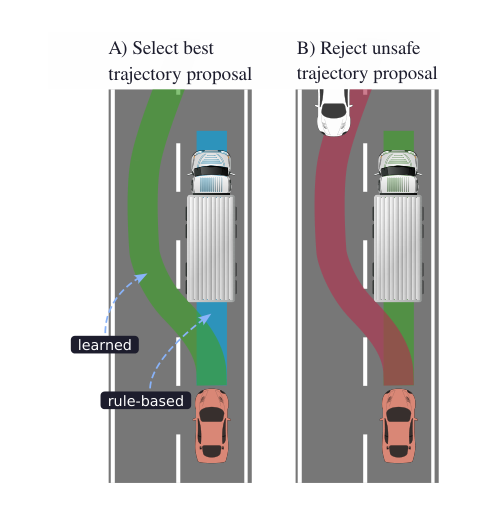
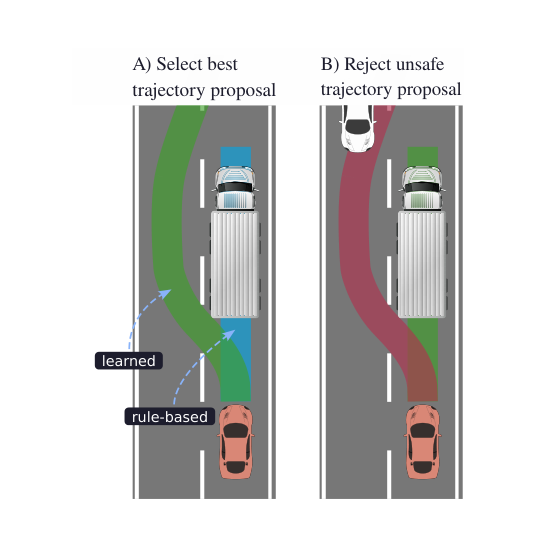
Tighten preview padding

Changed region(s): [[0.584, 0.0621, 0.9221, 0.9631], [0.123, 0.0621, 0.5225, 0.9631]]

diff --git a/runs/2026-04-17_00-15-25.html b/runs/2026-04-17_00-15-25.html
@@ -278,10 +278,10 @@
                     <div class='paper-preview'>
                       <div class='paper-preview-toolbar'>
                         <span class='preview-kind source'>源图优先</span>
-                        <button type='button' class='preview-open' data-preview-open='../assets/previews/2604.13891.png' data-preview-title='Beyond Conservative Automated Driving in Multi-Agent Scenarios via Coupled Model Predictive Control and Deep Reinforcement Learning' data-preview-source='源代码原图 · framework.pdf · 1378×692'>预览</button>
+                        <button type='button' class='preview-open' data-preview-open='../assets/previews/2604.13891.png' data-preview-title='Beyond Conservative Automated Driving in Multi-Agent Scenarios via Coupled Model Predictive Control and Deep Reinforcement Learning' data-preview-source='源代码原图 · framework.pdf · 1448×724'>预览</button>
                       </div>
-                      <img src='../assets/previews/2604.13891.png' alt='Beyond Conservative Automated Driving in Multi-Agent Scenarios via Coupled Model Predictive Control and Deep Reinforcement Learning 框架图预览' loading='lazy' decoding='async' data-preview-open='../assets/previews/2604.13891.png' data-preview-title='Beyond Conservative Automated Driving in Multi-Agent Scenarios via Coupled Model Predictive Control and Deep Reinforcement Learning' data-preview-source='源代码原图 · framework.pdf · 1378×692'>
-                      <div class='paper-preview-meta'><strong>预览图</strong><span>源代码原图 · framework.pdf · 1378×692</span></div>
+                      <img src='../assets/previews/2604.13891.png' alt='Beyond Conservative Automated Driving in Multi-Agent Scenarios via Coupled Model Predictive Control and Deep Reinforcement Learning 框架图预览' loading='lazy' decoding='async' data-preview-open='../assets/previews/2604.13891.png' data-preview-title='Beyond Conservative Automated Driving in Multi-Agent Scenarios via Coupled Model Predictive Control and Deep Reinforcement Learning' data-preview-source='源代码原图 · framework.pdf · 1448×724'>
+                      <div class='paper-preview-meta'><strong>预览图</strong><span>源代码原图 · framework.pdf · 1448×724</span></div>
                     </div>
                     <div class='paper-badges'>
                       <span class='badge violet'>实现概率 75%</span>
@@ -320,10 +320,10 @@
                     <div class='paper-preview'>
                       <div class='paper-preview-toolbar'>
                         <span class='preview-kind source'>源图优先</span>
-                        <button type='button' class='preview-open' data-preview-open='../assets/previews/2604.13853.png' data-preview-title='Mosaic: An Extensible Framework for Composing Rule-Based and Learned Motion Planners' data-preview-source='源代码原图 · mosaic-teaser.pdf · 488×515'>预览</button>
+                        <button type='button' class='preview-open' data-preview-open='../assets/previews/2604.13853.png' data-preview-title='Mosaic: An Extensible Framework for Composing Rule-Based and Learned Motion Planners' data-preview-source='源代码原图 · mosaic-teaser.pdf · 536×547'>预览</button>
                       </div>
-                      <img src='../assets/previews/2604.13853.png' alt='Mosaic: An Extensible Framework for Composing Rule-Based and Learned Motion Planners 框架图预览' loading='lazy' decoding='async' data-preview-open='../assets/previews/2604.13853.png' data-preview-title='Mosaic: An Extensible Framework for Composing Rule-Based and Learned Motion Planners' data-preview-source='源代码原图 · mosaic-teaser.pdf · 488×515'>
-                      <div class='paper-preview-meta'><strong>预览图</strong><span>源代码原图 · mosaic-teaser.pdf · 488×515</span></div>
+                      <img src='../assets/previews/2604.13853.png' alt='Mosaic: An Extensible Framework for Composing Rule-Based and Learned Motion Planners 框架图预览' loading='lazy' decoding='async' data-preview-open='../assets/previews/2604.13853.png' data-preview-title='Mosaic: An Extensible Framework for Composing Rule-Based and Learned Motion Planners' data-preview-source='源代码原图 · mosaic-teaser.pdf · 536×547'>
+                      <div class='paper-preview-meta'><strong>预览图</strong><span>源代码原图 · mosaic-teaser.pdf · 536×547</span></div>
                     </div>
                     <div class='paper-badges'>
                       <span class='badge green'>实现概率 82%</span>
@@ -362,10 +362,10 @@
                     <div class='paper-preview'>
                       <div class='paper-preview-toolbar'>
                         <span class='preview-kind source'>源图优先</span>
-                        <button type='button' class='preview-open' data-preview-open='../assets/previews/2604.12918.png' data-preview-title='Radar-Camera BEV Multi-Task Learning with Cross-Task Attention Bridge for Joint 3D Detection and Segmentation' data-preview-source='源代码原图 · gate_evolution.png · 1160×784'>预览</button>
+                        <button type='button' class='preview-open' data-preview-open='../assets/previews/2604.12918.png' data-preview-title='Radar-Camera BEV Multi-Task Learning with Cross-Task Attention Bridge for Joint 3D Detection and Segmentation' data-preview-source='源代码原图 · gate_evolution.png · 1218×816'>预览</button>
                       </div>
-                      <img src='../assets/previews/2604.12918.png' alt='Radar-Camera BEV Multi-Task Learning with Cross-Task Attention Bridge for Joint 3D Detection and Segmentation 框架图预览' loading='lazy' decoding='async' data-preview-open='../assets/previews/2604.12918.png' data-preview-title='Radar-Camera BEV Multi-Task Learning with Cross-Task Attention Bridge for Joint 3D Detection and Segmentation' data-preview-source='源代码原图 · gate_evolution.png · 1160×784'>
-                      <div class='paper-preview-meta'><strong>预览图</strong><span>源代码原图 · gate_evolution.png · 1160×784</span></div>
+                      <img src='../assets/previews/2604.12918.png' alt='Radar-Camera BEV Multi-Task Learning with Cross-Task Attention Bridge for Joint 3D Detection and Segmentation 框架图预览' loading='lazy' decoding='async' data-preview-open='../assets/previews/2604.12918.png' data-preview-title='Radar-Camera BEV Multi-Task Learning with Cross-Task Attention Bridge for Joint 3D Detection and Segmentation' data-preview-source='源代码原图 · gate_evolution.png · 1218×816'>
+                      <div class='paper-preview-meta'><strong>预览图</strong><span>源代码原图 · gate_evolution.png · 1218×816</span></div>
                     </div>
                     <div class='paper-badges'>
                       <span class='badge violet'>实现概率 78%</span>
@@ -416,10 +416,10 @@
                     <div class='paper-preview'>
                       <div class='paper-preview-toolbar'>
                         <span class='preview-kind source'>源图优先</span>
-                        <button type='button' class='preview-open' data-preview-open='../assets/previews/2604.12879.png' data-preview-title='FastGrasp: Learning-based Whole-body Control method for Fast Dexterous Grasping with Mobile Manipulators' data-preview-source='源代码原图 · pipeline4.pdf · 2671×1426'>预览</button>
+                        <button type='button' class='preview-open' data-preview-open='../assets/previews/2604.12879.png' data-preview-title='FastGrasp: Learning-based Whole-body Control method for Fast Dexterous Grasping with Mobile Manipulators' data-preview-source='源代码原图 · pipeline4.pdf · 2805×1452'>预览</button>
                       </div>
-                      <img src='../assets/previews/2604.12879.png' alt='FastGrasp: Learning-based Whole-body Control method for Fast Dexterous Grasping with Mobile Manipulators 框架图预览' loading='lazy' decoding='async' data-preview-open='../assets/previews/2604.12879.png' data-preview-title='FastGrasp: Learning-based Whole-body Control method for Fast Dexterous Grasping with Mobile Manipulators' data-preview-source='源代码原图 · pipeline4.pdf · 2671×1426'>
-                      <div class='paper-preview-meta'><strong>预览图</strong><span>源代码原图 · pipeline4.pdf · 2671×1426</span></div>
+                      <img src='../assets/previews/2604.12879.png' alt='FastGrasp: Learning-based Whole-body Control method for Fast Dexterous Grasping with Mobile Manipulators 框架图预览' loading='lazy' decoding='async' data-preview-open='../assets/previews/2604.12879.png' data-preview-title='FastGrasp: Learning-based Whole-body Control method for Fast Dexterous Grasping with Mobile Manipulators' data-preview-source='源代码原图 · pipeline4.pdf · 2805×1452'>
+                      <div class='paper-preview-meta'><strong>预览图</strong><span>源代码原图 · pipeline4.pdf · 2805×1452</span></div>
                     </div>
                     <div class='paper-badges'>
                       <span class='badge violet'>实现概率 70%</span>
@@ -458,10 +458,10 @@
                     <div class='paper-preview'>
                       <div class='paper-preview-toolbar'>
                         <span class='preview-kind source'>源图优先</span>
-                        <button type='button' class='preview-open' data-preview-open='../assets/previews/2604.13015.png' data-preview-title='Learning Versatile Humanoid Manipulation with Touch Dreaming' data-preview-source='源代码原图 · teaser.pdf · 1740×1298'>预览</button>
+                        <button type='button' class='preview-open' data-preview-open='../assets/previews/2604.13015.png' data-preview-title='Learning Versatile Humanoid Manipulation with Touch Dreaming' data-preview-source='源代码原图 · teaser.pdf · 1828×1322'>预览</button>
                       </div>
-                      <img src='../assets/previews/2604.13015.png' alt='Learning Versatile Humanoid Manipulation with Touch Dreaming 框架图预览' loading='lazy' decoding='async' data-preview-open='../assets/previews/2604.13015.png' data-preview-title='Learning Versatile Humanoid Manipulation with Touch Dreaming' data-preview-source='源代码原图 · teaser.pdf · 1740×1298'>
-                      <div class='paper-preview-meta'><strong>预览图</strong><span>源代码原图 · teaser.pdf · 1740×1298</span></div>
+                      <img src='../assets/previews/2604.13015.png' alt='Learning Versatile Humanoid Manipulation with Touch Dreaming 框架图预览' loading='lazy' decoding='async' data-preview-open='../assets/previews/2604.13015.png' data-preview-title='Learning Versatile Humanoid Manipulation with Touch Dreaming' data-preview-source='源代码原图 · teaser.pdf · 1828×1322'>
+                      <div class='paper-preview-meta'><strong>预览图</strong><span>源代码原图 · teaser.pdf · 1828×1322</span></div>
                     </div>
                     <div class='paper-badges'>
                       <span class='badge soft'>实现概率 68%</span>
@@ -500,10 +500,10 @@
                     <div class='paper-preview'>
                       <div class='paper-preview-toolbar'>
                         <span class='preview-kind source'>源图优先</span>
-                        <button type='button' class='preview-open' data-preview-open='../assets/previews/2604.14089.png' data-preview-title='UMI-3D: Extending Universal Manipulation Interface from Vision-Limited to 3D Spatial Perception' data-preview-source='源代码原图 · UMI-3D.jpg · 1236×712'>预览</button>
+                        <button type='button' class='preview-open' data-preview-open='../assets/previews/2604.14089.png' data-preview-title='UMI-3D: Extending Universal Manipulation Interface from Vision-Limited to 3D Spatial Perception' data-preview-source='源代码原图 · UMI-3D.jpg · 1300×744'>预览</button>
                       </div>
-                      <img src='../assets/previews/2604.14089.png' alt='UMI-3D: Extending Universal Manipulation Interface from Vision-Limited to 3D Spatial Perception 框架图预览' loading='lazy' decoding='async' data-preview-open='../assets/previews/2604.14089.png' data-preview-title='UMI-3D: Extending Universal Manipulation Interface from Vision-Limited to 3D Spatial Perception' data-preview-source='源代码原图 · UMI-3D.jpg · 1236×712'>
-                      <div class='paper-preview-meta'><strong>预览图</strong><span>源代码原图 · UMI-3D.jpg · 1236×712</span></div>
+                      <img src='../assets/previews/2604.14089.png' alt='UMI-3D: Extending Universal Manipulation Interface from Vision-Limited to 3D Spatial Perception 框架图预览' loading='lazy' decoding='async' data-preview-open='../assets/previews/2604.14089.png' data-preview-title='UMI-3D: Extending Universal Manipulation Interface from Vision-Limited to 3D Spatial Perception' data-preview-source='源代码原图 · UMI-3D.jpg · 1300×744'>
+                      <div class='paper-preview-meta'><strong>预览图</strong><span>源代码原图 · UMI-3D.jpg · 1300×744</span></div>
                     </div>
                     <div class='paper-badges'>
                       <span class='badge soft'>实现概率 66%</span>
@@ -554,10 +554,10 @@
                     <div class='paper-preview'>
                       <div class='paper-preview-toolbar'>
                         <span class='preview-kind source'>源图优先</span>
-                        <button type='button' class='preview-open' data-preview-open='../assets/previews/2604.14125.png' data-preview-title='HiVLA: A Visual-Grounded-Centric Hierarchical Embodied Manipulation System' data-preview-source='源代码原图 · real.pdf · 2160×2040'>预览</button>
+                        <button type='button' class='preview-open' data-preview-open='../assets/previews/2604.14125.png' data-preview-title='HiVLA: A Visual-Grounded-Centric Hierarchical Embodied Manipulation System' data-preview-source='源代码原图 · real.pdf · 2268×2076'>预览</button>
                       </div>
-                      <img src='../assets/previews/2604.14125.png' alt='HiVLA: A Visual-Grounded-Centric Hierarchical Embodied Manipulation System 框架图预览' loading='lazy' decoding='async' data-preview-open='../assets/previews/2604.14125.png' data-preview-title='HiVLA: A Visual-Grounded-Centric Hierarchical Embodied Manipulation System' data-preview-source='源代码原图 · real.pdf · 2160×2040'>
-                      <div class='paper-preview-meta'><strong>预览图</strong><span>源代码原图 · real.pdf · 2160×2040</span></div>
+                      <img src='../assets/previews/2604.14125.png' alt='HiVLA: A Visual-Grounded-Centric Hierarchical Embodied Manipulation System 框架图预览' loading='lazy' decoding='async' data-preview-open='../assets/previews/2604.14125.png' data-preview-title='HiVLA: A Visual-Grounded-Centric Hierarchical Embodied Manipulation System' data-preview-source='源代码原图 · real.pdf · 2268×2076'>
+                      <div class='paper-preview-meta'><strong>预览图</strong><span>源代码原图 · real.pdf · 2268×2076</span></div>
                     </div>
                     <div class='paper-badges'>
                       <span class='badge violet'>实现概率 72%</span>
@@ -596,10 +596,10 @@
                     <div class='paper-preview'>
                       <div class='paper-preview-toolbar'>
                         <span class='preview-kind source'>源图优先</span>
-                        <button type='button' class='preview-open' data-preview-open='../assets/previews/2604.13942.png' data-preview-title='Goal2Skill: Long-Horizon Manipulation with Adaptive Planning and Reflection' data-preview-source='源代码原图 · overview.png · 1236×635'>预览</button>
+                        <button type='button' class='preview-open' data-preview-open='../assets/previews/2604.13942.png' data-preview-title='Goal2Skill: Long-Horizon Manipulation with Adaptive Planning and Reflection' data-preview-source='源代码原图 · overview.png · 1300×667'>预览</button>
                       </div>
-                      <img src='../assets/previews/2604.13942.png' alt='Goal2Skill: Long-Horizon Manipulation with Adaptive Planning and Reflection 框架图预览' loading='lazy' decoding='async' data-preview-open='../assets/previews/2604.13942.png' data-preview-title='Goal2Skill: Long-Horizon Manipulation with Adaptive Planning and Reflection' data-preview-source='源代码原图 · overview.png · 1236×635'>
-                      <div class='paper-preview-meta'><strong>预览图</strong><span>源代码原图 · overview.png · 1236×635</span></div>
+                      <img src='../assets/previews/2604.13942.png' alt='Goal2Skill: Long-Horizon Manipulation with Adaptive Planning and Reflection 框架图预览' loading='lazy' decoding='async' data-preview-open='../assets/previews/2604.13942.png' data-preview-title='Goal2Skill: Long-Horizon Manipulation with Adaptive Planning and Reflection' data-preview-source='源代码原图 · overview.png · 1300×667'>
+                      <div class='paper-preview-meta'><strong>预览图</strong><span>源代码原图 · overview.png · 1300×667</span></div>
                     </div>
                     <div class='paper-badges'>
                       <span class='badge violet'>实现概率 74%</span>
@@ -650,10 +650,10 @@
                     <div class='paper-preview'>
                       <div class='paper-preview-toolbar'>
                         <span class='preview-kind source'>源图优先</span>
-                        <button type='button' class='preview-open' data-preview-open='../assets/previews/2604.14129.png' data-preview-title='Don&#x27;t Let the Video Speak: Audio-Contrastive Preference Optimization for Audio-Visual Language Models' data-preview-source='源代码原图 · method_full.pdf · 1579×712'>预览</button>
+                        <button type='button' class='preview-open' data-preview-open='../assets/previews/2604.14129.png' data-preview-title='Don&#x27;t Let the Video Speak: Audio-Contrastive Preference Optimization for Audio-Visual Language Models' data-preview-source='源代码原图 · method_full.pdf · 1659×744'>预览</button>
                       </div>
-                      <img src='../assets/previews/2604.14129.png' alt='Don&#x27;t Let the Video Speak: Audio-Contrastive Preference Optimization for Audio-Visual Language Models 框架图预览' loading='lazy' decoding='async' data-preview-open='../assets/previews/2604.14129.png' data-preview-title='Don&#x27;t Let the Video Speak: Audio-Contrastive Preference Optimization for Audio-Visual Language Models' data-preview-source='源代码原图 · method_full.pdf · 1579×712'>
-                      <div class='paper-preview-meta'><strong>预览图</strong><span>源代码原图 · method_full.pdf · 1579×712</span></div>
+                      <img src='../assets/previews/2604.14129.png' alt='Don&#x27;t Let the Video Speak: Audio-Contrastive Preference Optimization for Audio-Visual Language Models 框架图预览' loading='lazy' decoding='async' data-preview-open='../assets/previews/2604.14129.png' data-preview-title='Don&#x27;t Let the Video Speak: Audio-Contrastive Preference Optimization for Audio-Visual Language Models' data-preview-source='源代码原图 · method_full.pdf · 1659×744'>
+                      <div class='paper-preview-meta'><strong>预览图</strong><span>源代码原图 · method_full.pdf · 1659×744</span></div>
                     </div>
                     <div class='paper-badges'>
                       <span class='badge green'>实现概率 84%</span>
@@ -692,10 +692,10 @@
                     <div class='paper-preview'>
                       <div class='paper-preview-toolbar'>
                         <span class='preview-kind source'>源图优先</span>
-                        <button type='button' class='preview-open' data-preview-open='../assets/previews/2604.14149.png' data-preview-title='One Token per Highly Selective Frame: Towards Extreme Compression for Long Video Understanding' data-preview-source='源代码原图 · teaser.pdf · 2805×1299'>预览</button>
+                        <button type='button' class='preview-open' data-preview-open='../assets/previews/2604.14149.png' data-preview-title='One Token per Highly Selective Frame: Towards Extreme Compression for Long Video Understanding' data-preview-source='源代码原图 · teaser.pdf · 2947×1323'>预览</button>
                       </div>
-                      <img src='../assets/previews/2604.14149.png' alt='One Token per Highly Selective Frame: Towards Extreme Compression for Long Video Understanding 框架图预览' loading='lazy' decoding='async' data-preview-open='../assets/previews/2604.14149.png' data-preview-title='One Token per Highly Selective Frame: Towards Extreme Compression for Long Video Understanding' data-preview-source='源代码原图 · teaser.pdf · 2805×1299'>
-                      <div class='paper-preview-meta'><strong>预览图</strong><span>源代码原图 · teaser.pdf · 2805×1299</span></div>
+                      <img src='../assets/previews/2604.14149.png' alt='One Token per Highly Selective Frame: Towards Extreme Compression for Long Video Understanding 框架图预览' loading='lazy' decoding='async' data-preview-open='../assets/previews/2604.14149.png' data-preview-title='One Token per Highly Selective Frame: Towards Extreme Compression for Long Video Understanding' data-preview-source='源代码原图 · teaser.pdf · 2947×1323'>
+                      <div class='paper-preview-meta'><strong>预览图</strong><span>源代码原图 · teaser.pdf · 2947×1323</span></div>
                     </div>
                     <div class='paper-badges'>
                       <span class='badge violet'>实现概率 79%</span>

diff --git a/index.html b/index.html
@@ -278,10 +278,10 @@
                     <div class='paper-preview'>
                       <div class='paper-preview-toolbar'>
                         <span class='preview-kind source'>源图优先</span>
-                        <button type='button' class='preview-open' data-preview-open='assets/previews/2604.13891.png' data-preview-title='Beyond Conservative Automated Driving in Multi-Agent Scenarios via Coupled Model Predictive Control and Deep Reinforcement Learning' data-preview-source='源代码原图 · framework.pdf · 1378×692'>预览</button>
+                        <button type='button' class='preview-open' data-preview-open='assets/previews/2604.13891.png' data-preview-title='Beyond Conservative Automated Driving in Multi-Agent Scenarios via Coupled Model Predictive Control and Deep Reinforcement Learning' data-preview-source='源代码原图 · framework.pdf · 1448×724'>预览</button>
                       </div>
-                      <img src='assets/previews/2604.13891.png' alt='Beyond Conservative Automated Driving in Multi-Agent Scenarios via Coupled Model Predictive Control and Deep Reinforcement Learning 框架图预览' loading='lazy' decoding='async' data-preview-open='assets/previews/2604.13891.png' data-preview-title='Beyond Conservative Automated Driving in Multi-Agent Scenarios via Coupled Model Predictive Control and Deep Reinforcement Learning' data-preview-source='源代码原图 · framework.pdf · 1378×692'>
-                      <div class='paper-preview-meta'><strong>预览图</strong><span>源代码原图 · framework.pdf · 1378×692</span></div>
+                      <img src='assets/previews/2604.13891.png' alt='Beyond Conservative Automated Driving in Multi-Agent Scenarios via Coupled Model Predictive Control and Deep Reinforcement Learning 框架图预览' loading='lazy' decoding='async' data-preview-open='assets/previews/2604.13891.png' data-preview-title='Beyond Conservative Automated Driving in Multi-Agent Scenarios via Coupled Model Predictive Control and Deep Reinforcement Learning' data-preview-source='源代码原图 · framework.pdf · 1448×724'>
+                      <div class='paper-preview-meta'><strong>预览图</strong><span>源代码原图 · framework.pdf · 1448×724</span></div>
                     </div>
                     <div class='paper-badges'>
                       <span class='badge violet'>实现概率 75%</span>
@@ -320,10 +320,10 @@
                     <div class='paper-preview'>
                       <div class='paper-preview-toolbar'>
                         <span class='preview-kind source'>源图优先</span>
-                        <button type='button' class='preview-open' data-preview-open='assets/previews/2604.13853.png' data-preview-title='Mosaic: An Extensible Framework for Composing Rule-Based and Learned Motion Planners' data-preview-source='源代码原图 · mosaic-teaser.pdf · 488×515'>预览</button>
+                        <button type='button' class='preview-open' data-preview-open='assets/previews/2604.13853.png' data-preview-title='Mosaic: An Extensible Framework for Composing Rule-Based and Learned Motion Planners' data-preview-source='源代码原图 · mosaic-teaser.pdf · 536×547'>预览</button>
                       </div>
-                      <img src='assets/previews/2604.13853.png' alt='Mosaic: An Extensible Framework for Composing Rule-Based and Learned Motion Planners 框架图预览' loading='lazy' decoding='async' data-preview-open='assets/previews/2604.13853.png' data-preview-title='Mosaic: An Extensible Framework for Composing Rule-Based and Learned Motion Planners' data-preview-source='源代码原图 · mosaic-teaser.pdf · 488×515'>
-                      <div class='paper-preview-meta'><strong>预览图</strong><span>源代码原图 · mosaic-teaser.pdf · 488×515</span></div>
+                      <img src='assets/previews/2604.13853.png' alt='Mosaic: An Extensible Framework for Composing Rule-Based and Learned Motion Planners 框架图预览' loading='lazy' decoding='async' data-preview-open='assets/previews/2604.13853.png' data-preview-title='Mosaic: An Extensible Framework for Composing Rule-Based and Learned Motion Planners' data-preview-source='源代码原图 · mosaic-teaser.pdf · 536×547'>
+                      <div class='paper-preview-meta'><strong>预览图</strong><span>源代码原图 · mosaic-teaser.pdf · 536×547</span></div>
                     </div>
                     <div class='paper-badges'>
                       <span class='badge green'>实现概率 82%</span>
@@ -362,10 +362,10 @@
                     <div class='paper-preview'>
                       <div class='paper-preview-toolbar'>
                         <span class='preview-kind source'>源图优先</span>
-                        <button type='button' class='preview-open' data-preview-open='assets/previews/2604.12918.png' data-preview-title='Radar-Camera BEV Multi-Task Learning with Cross-Task Attention Bridge for Joint 3D Detection and Segmentation' data-preview-source='源代码原图 · gate_evolution.png · 1160×784'>预览</button>
+                        <button type='button' class='preview-open' data-preview-open='assets/previews/2604.12918.png' data-preview-title='Radar-Camera BEV Multi-Task Learning with Cross-Task Attention Bridge for Joint 3D Detection and Segmentation' data-preview-source='源代码原图 · gate_evolution.png · 1218×816'>预览</button>
                       </div>
-                      <img src='assets/previews/2604.12918.png' alt='Radar-Camera BEV Multi-Task Learning with Cross-Task Attention Bridge for Joint 3D Detection and Segmentation 框架图预览' loading='lazy' decoding='async' data-preview-open='assets/previews/2604.12918.png' data-preview-title='Radar-Camera BEV Multi-Task Learning with Cross-Task Attention Bridge for Joint 3D Detection and Segmentation' data-preview-source='源代码原图 · gate_evolution.png · 1160×784'>
-                      <div class='paper-preview-meta'><strong>预览图</strong><span>源代码原图 · gate_evolution.png · 1160×784</span></div>
+                      <img src='assets/previews/2604.12918.png' alt='Radar-Camera BEV Multi-Task Learning with Cross-Task Attention Bridge for Joint 3D Detection and Segmentation 框架图预览' loading='lazy' decoding='async' data-preview-open='assets/previews/2604.12918.png' data-preview-title='Radar-Camera BEV Multi-Task Learning with Cross-Task Attention Bridge for Joint 3D Detection and Segmentation' data-preview-source='源代码原图 · gate_evolution.png · 1218×816'>
+                      <div class='paper-preview-meta'><strong>预览图</strong><span>源代码原图 · gate_evolution.png · 1218×816</span></div>
                     </div>
                     <div class='paper-badges'>
                       <span class='badge violet'>实现概率 78%</span>
@@ -416,10 +416,10 @@
                     <div class='paper-preview'>
                       <div class='paper-preview-toolbar'>
                         <span class='preview-kind source'>源图优先</span>
-                        <button type='button' class='preview-open' data-preview-open='assets/previews/2604.12879.png' data-preview-title='FastGrasp: Learning-based Whole-body Control method for Fast Dexterous Grasping with Mobile Manipulators' data-preview-source='源代码原图 · pipeline4.pdf · 2671×1426'>预览</button>
+                        <button type='button' class='preview-open' data-preview-open='assets/previews/2604.12879.png' data-preview-title='FastGrasp: Learning-based Whole-body Control method for Fast Dexterous Grasping with Mobile Manipulators' data-preview-source='源代码原图 · pipeline4.pdf · 2805×1452'>预览</button>
                       </div>
-                      <img src='assets/previews/2604.12879.png' alt='FastGrasp: Learning-based Whole-body Control method for Fast Dexterous Grasping with Mobile Manipulators 框架图预览' loading='lazy' decoding='async' data-preview-open='assets/previews/2604.12879.png' data-preview-title='FastGrasp: Learning-based Whole-body Control method for Fast Dexterous Grasping with Mobile Manipulators' data-preview-source='源代码原图 · pipeline4.pdf · 2671×1426'>
-                      <div class='paper-preview-meta'><strong>预览图</strong><span>源代码原图 · pipeline4.pdf · 2671×1426</span></div>
+                      <img src='assets/previews/2604.12879.png' alt='FastGrasp: Learning-based Whole-body Control method for Fast Dexterous Grasping with Mobile Manipulators 框架图预览' loading='lazy' decoding='async' data-preview-open='assets/previews/2604.12879.png' data-preview-title='FastGrasp: Learning-based Whole-body Control method for Fast Dexterous Grasping with Mobile Manipulators' data-preview-source='源代码原图 · pipeline4.pdf · 2805×1452'>
+                      <div class='paper-preview-meta'><strong>预览图</strong><span>源代码原图 · pipeline4.pdf · 2805×1452</span></div>
                     </div>
                     <div class='paper-badges'>
                       <span class='badge violet'>实现概率 70%</span>
@@ -458,10 +458,10 @@
                     <div class='paper-preview'>
                       <div class='paper-preview-toolbar'>
                         <span class='preview-kind source'>源图优先</span>
-                        <button type='button' class='preview-open' data-preview-open='assets/previews/2604.13015.png' data-preview-title='Learning Versatile Humanoid Manipulation with Touch Dreaming' data-preview-source='源代码原图 · teaser.pdf · 1740×1298'>预览</button>
+                        <button type='button' class='preview-open' data-preview-open='assets/previews/2604.13015.png' data-preview-title='Learning Versatile Humanoid Manipulation with Touch Dreaming' data-preview-source='源代码原图 · teaser.pdf · 1828×1322'>预览</button>
                       </div>
-                      <img src='assets/previews/2604.13015.png' alt='Learning Versatile Humanoid Manipulation with Touch Dreaming 框架图预览' loading='lazy' decoding='async' data-preview-open='assets/previews/2604.13015.png' data-preview-title='Learning Versatile Humanoid Manipulation with Touch Dreaming' data-preview-source='源代码原图 · teaser.pdf · 1740×1298'>
-                      <div class='paper-preview-meta'><strong>预览图</strong><span>源代码原图 · teaser.pdf · 1740×1298</span></div>
+                      <img src='assets/previews/2604.13015.png' alt='Learning Versatile Humanoid Manipulation with Touch Dreaming 框架图预览' loading='lazy' decoding='async' data-preview-open='assets/previews/2604.13015.png' data-preview-title='Learning Versatile Humanoid Manipulation with Touch Dreaming' data-preview-source='源代码原图 · teaser.pdf · 1828×1322'>
+                      <div class='paper-preview-meta'><strong>预览图</strong><span>源代码原图 · teaser.pdf · 1828×1322</span></div>
                     </div>
                     <div class='paper-badges'>
                       <span class='badge soft'>实现概率 68%</span>
@@ -500,10 +500,10 @@
                     <div class='paper-preview'>
                       <div class='paper-preview-toolbar'>
                         <span class='preview-kind source'>源图优先</span>
-                        <button type='button' class='preview-open' data-preview-open='assets/previews/2604.14089.png' data-preview-title='UMI-3D: Extending Universal Manipulation Interface from Vision-Limited to 3D Spatial Perception' data-preview-source='源代码原图 · UMI-3D.jpg · 1236×712'>预览</button>
+                        <button type='button' class='preview-open' data-preview-open='assets/previews/2604.14089.png' data-preview-title='UMI-3D: Extending Universal Manipulation Interface from Vision-Limited to 3D Spatial Perception' data-preview-source='源代码原图 · UMI-3D.jpg · 1300×744'>预览</button>
                       </div>
-                      <img src='assets/previews/2604.14089.png' alt='UMI-3D: Extending Universal Manipulation Interface from Vision-Limited to 3D Spatial Perception 框架图预览' loading='lazy' decoding='async' data-preview-open='assets/previews/2604.14089.png' data-preview-title='UMI-3D: Extending Universal Manipulation Interface from Vision-Limited to 3D Spatial Perception' data-preview-source='源代码原图 · UMI-3D.jpg · 1236×712'>
-                      <div class='paper-preview-meta'><strong>预览图</strong><span>源代码原图 · UMI-3D.jpg · 1236×712</span></div>
+                      <img src='assets/previews/2604.14089.png' alt='UMI-3D: Extending Universal Manipulation Interface from Vision-Limited to 3D Spatial Perception 框架图预览' loading='lazy' decoding='async' data-preview-open='assets/previews/2604.14089.png' data-preview-title='UMI-3D: Extending Universal Manipulation Interface from Vision-Limited to 3D Spatial Perception' data-preview-source='源代码原图 · UMI-3D.jpg · 1300×744'>
+                      <div class='paper-preview-meta'><strong>预览图</strong><span>源代码原图 · UMI-3D.jpg · 1300×744</span></div>
                     </div>
                     <div class='paper-badges'>
                       <span class='badge soft'>实现概率 66%</span>
@@ -554,10 +554,10 @@
                     <div class='paper-preview'>
                       <div class='paper-preview-toolbar'>
                         <span class='preview-kind source'>源图优先</span>
-                        <button type='button' class='preview-open' data-preview-open='assets/previews/2604.14125.png' data-preview-title='HiVLA: A Visual-Grounded-Centric Hierarchical Embodied Manipulation System' data-preview-source='源代码原图 · real.pdf · 2160×2040'>预览</button>
+                        <button type='button' class='preview-open' data-preview-open='assets/previews/2604.14125.png' data-preview-title='HiVLA: A Visual-Grounded-Centric Hierarchical Embodied Manipulation System' data-preview-source='源代码原图 · real.pdf · 2268×2076'>预览</button>
                       </div>
-                      <img src='assets/previews/2604.14125.png' alt='HiVLA: A Visual-Grounded-Centric Hierarchical Embodied Manipulation System 框架图预览' loading='lazy' decoding='async' data-preview-open='assets/previews/2604.14125.png' data-preview-title='HiVLA: A Visual-Grounded-Centric Hierarchical Embodied Manipulation System' data-preview-source='源代码原图 · real.pdf · 2160×2040'>
-                      <div class='paper-preview-meta'><strong>预览图</strong><span>源代码原图 · real.pdf · 2160×2040</span></div>
+                      <img src='assets/previews/2604.14125.png' alt='HiVLA: A Visual-Grounded-Centric Hierarchical Embodied Manipulation System 框架图预览' loading='lazy' decoding='async' data-preview-open='assets/previews/2604.14125.png' data-preview-title='HiVLA: A Visual-Grounded-Centric Hierarchical Embodied Manipulation System' data-preview-source='源代码原图 · real.pdf · 2268×2076'>
+                      <div class='paper-preview-meta'><strong>预览图</strong><span>源代码原图 · real.pdf · 2268×2076</span></div>
                     </div>
                     <div class='paper-badges'>
                       <span class='badge violet'>实现概率 72%</span>
@@ -596,10 +596,10 @@
                     <div class='paper-preview'>
                       <div class='paper-preview-toolbar'>
                         <span class='preview-kind source'>源图优先</span>
-                        <button type='button' class='preview-open' data-preview-open='assets/previews/2604.13942.png' data-preview-title='Goal2Skill: Long-Horizon Manipulation with Adaptive Planning and Reflection' data-preview-source='源代码原图 · overview.png · 1236×635'>预览</button>
+                        <button type='button' class='preview-open' data-preview-open='assets/previews/2604.13942.png' data-preview-title='Goal2Skill: Long-Horizon Manipulation with Adaptive Planning and Reflection' data-preview-source='源代码原图 · overview.png · 1300×667'>预览</button>
                       </div>
-                      <img src='assets/previews/2604.13942.png' alt='Goal2Skill: Long-Horizon Manipulation with Adaptive Planning and Reflection 框架图预览' loading='lazy' decoding='async' data-preview-open='assets/previews/2604.13942.png' data-preview-title='Goal2Skill: Long-Horizon Manipulation with Adaptive Planning and Reflection' data-preview-source='源代码原图 · overview.png · 1236×635'>
-                      <div class='paper-preview-meta'><strong>预览图</strong><span>源代码原图 · overview.png · 1236×635</span></div>
+                      <img src='assets/previews/2604.13942.png' alt='Goal2Skill: Long-Horizon Manipulation with Adaptive Planning and Reflection 框架图预览' loading='lazy' decoding='async' data-preview-open='assets/previews/2604.13942.png' data-preview-title='Goal2Skill: Long-Horizon Manipulation with Adaptive Planning and Reflection' data-preview-source='源代码原图 · overview.png · 1300×667'>
+                      <div class='paper-preview-meta'><strong>预览图</strong><span>源代码原图 · overview.png · 1300×667</span></div>
                     </div>
                     <div class='paper-badges'>
                       <span class='badge violet'>实现概率 74%</span>
@@ -650,10 +650,10 @@
                     <div class='paper-preview'>
                       <div class='paper-preview-toolbar'>
                         <span class='preview-kind source'>源图优先</span>
-                        <button type='button' class='preview-open' data-preview-open='assets/previews/2604.14129.png' data-preview-title='Don&#x27;t Let the Video Speak: Audio-Contrastive Preference Optimization for Audio-Visual Language Models' data-preview-source='源代码原图 · method_full.pdf · 1579×712'>预览</button>
+                        <button type='button' class='preview-open' data-preview-open='assets/previews/2604.14129.png' data-preview-title='Don&#x27;t Let the Video Speak: Audio-Contrastive Preference Optimization for Audio-Visual Language Models' data-preview-source='源代码原图 · method_full.pdf · 1659×744'>预览</button>
                       </div>
-                      <img src='assets/previews/2604.14129.png' alt='Don&#x27;t Let the Video Speak: Audio-Contrastive Preference Optimization for Audio-Visual Language Models 框架图预览' loading='lazy' decoding='async' data-preview-open='assets/previews/2604.14129.png' data-preview-title='Don&#x27;t Let the Video Speak: Audio-Contrastive Preference Optimization for Audio-Visual Language Models' data-preview-source='源代码原图 · method_full.pdf · 1579×712'>
-                      <div class='paper-preview-meta'><strong>预览图</strong><span>源代码原图 · method_full.pdf · 1579×712</span></div>
+                      <img src='assets/previews/2604.14129.png' alt='Don&#x27;t Let the Video Speak: Audio-Contrastive Preference Optimization for Audio-Visual Language Models 框架图预览' loading='lazy' decoding='async' data-preview-open='assets/previews/2604.14129.png' data-preview-title='Don&#x27;t Let the Video Speak: Audio-Contrastive Preference Optimization for Audio-Visual Language Models' data-preview-source='源代码原图 · method_full.pdf · 1659×744'>
+                      <div class='paper-preview-meta'><strong>预览图</strong><span>源代码原图 · method_full.pdf · 1659×744</span></div>
                     </div>
                     <div class='paper-badges'>
                       <span class='badge green'>实现概率 84%</span>
@@ -692,10 +692,10 @@
                     <div class='paper-preview'>
                       <div class='paper-preview-toolbar'>
                         <span class='preview-kind source'>源图优先</span>
-                        <button type='button' class='preview-open' data-preview-open='assets/previews/2604.14149.png' data-preview-title='One Token per Highly Selective Frame: Towards Extreme Compression for Long Video Understanding' data-preview-source='源代码原图 · teaser.pdf · 2805×1299'>预览</button>
+                        <button type='button' class='preview-open' data-preview-open='assets/previews/2604.14149.png' data-preview-title='One Token per Highly Selective Frame: Towards Extreme Compression for Long Video Understanding' data-preview-source='源代码原图 · teaser.pdf · 2947×1323'>预览</button>
                       </div>
-                      <img src='assets/previews/2604.14149.png' alt='One Token per Highly Selective Frame: Towards Extreme Compression for Long Video Understanding 框架图预览' loading='lazy' decoding='async' data-preview-open='assets/previews/2604.14149.png' data-preview-title='One Token per Highly Selective Frame: Towards Extreme Compression for Long Video Understanding' data-preview-source='源代码原图 · teaser.pdf · 2805×1299'>
-                      <div class='paper-preview-meta'><strong>预览图</strong><span>源代码原图 · teaser.pdf · 2805×1299</span></div>
+                      <img src='assets/previews/2604.14149.png' alt='One Token per Highly Selective Frame: Towards Extreme Compression for Long Video Understanding 框架图预览' loading='lazy' decoding='async' data-preview-open='assets/previews/2604.14149.png' data-preview-title='One Token per Highly Selective Frame: Towards Extreme Compression for Long Video Understanding' data-preview-source='源代码原图 · teaser.pdf · 2947×1323'>
+                      <div class='paper-preview-meta'><strong>预览图</strong><span>源代码原图 · teaser.pdf · 2947×1323</span></div>
                     </div>
                     <div class='paper-badges'>
                       <span class='badge violet'>实现概率 79%</span>

diff --git a/build_site.py b/build_site.py
@@ -23,7 +23,7 @@ JOB_ID = "054d56957dbb"
 SITE_DIR = Path(__file__).resolve().parent
 SRC_DIR = Path.home() / ".hermes" / "cron" / "output" / JOB_ID
 PREVIEW_DIR = SITE_DIR / "assets" / "previews"
-PREVIEW_CACHE_VERSION = "v4"
+PREVIEW_CACHE_VERSION = "v5"
 
 SECTION_RE = re.compile(r"^##\s+(.*?)\s*$")
 PAPER_RE = re.compile(r"^\d+\.\s+\*\*(.*?)\*\*\s*$")
@@ -206,8 +206,8 @@ def pad_preview_png(data: bytes, pad_x: int | None = None, pad_y: int | None = N
         with Image.open(io.BytesIO(data)) as img:
             img.load()
             img = img.convert("RGB")
-            px = pad_x if pad_x is not None else max(48, img.width // 16)
-            py = pad_y if pad_y is not None else max(32, img.height // 22)
+            px = pad_x if pad_x is not None else max(72, img.width // 11)
+            py = pad_y if pad_y is not None else max(48, img.height // 18)
             canvas = Image.new("RGB", (img.width + px * 2, img.height + py * 2), "white")
             canvas.paste(img, (px, py))
             buf = io.BytesIO()
